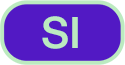
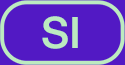
ajustando gui botones si no

Changed region(s): [[0.0, 0.0, 1.0, 1.0]]

diff --git a/src/vista/Prueba_Frame_001_Inicial.java b/src/vista/Prueba_Frame_001_Inicial.java
@@ -61,24 +61,34 @@ public class Prueba_Frame_001_Inicial extends JFrame {
         //Create Listener Object and Control Object
         //Set up JComponents
         contiene_Botones =  new JPanel();
+        contiene_Botones.setBackground(colorBack);
         padrino = new JPanel();
         escucha = new Escucha();
 
 
 
-        jButton_SI = new JButton("SI");
-        jButton_SI.setPreferredSize(new Dimension(60, 31));
-        jButton_SI.setBackground(Color.BLACK);
+        jButton_SI = new JButton();
+        ImageIcon imageIcon = new ImageIcon(getClass().getResource("/resources/Boton_SI.png"));
+        ImageIcon imageIcon_Pressed = new ImageIcon(getClass().getResource("/resources/Boton_SI_PRESSED.png"));
+        jButton_SI.setIcon(new ImageIcon(imageIcon.getImage().getScaledInstance(60,31,Image.SCALE_SMOOTH)));
+        jButton_SI.setBorder(BorderFactory.createEmptyBorder());
+        jButton_SI.setPressedIcon(new ImageIcon(imageIcon_Pressed.getImage().getScaledInstance(60,31,Image.SCALE_SMOOTH)));
         jButton_SI.setOpaque(true);
         jButton_SI.setFont(font);
         jButton_SI.addActionListener(escucha);
 
-        jButton_NO = new JButton("NO");
-        jButton_NO.setPreferredSize(new Dimension(60, 31));
-        jButton_NO.setBackground(Color.BLACK);
+
+        jButton_NO = new JButton();
+        imageIcon = new ImageIcon(getClass().getResource("/resources/Boton_NO.png"));
+        imageIcon_Pressed = new ImageIcon(getClass().getResource("/resources/Boton_NO_PRESSED.png"));
+        jButton_NO.setIcon(new ImageIcon(imageIcon.getImage().getScaledInstance(60,31,Image.SCALE_SMOOTH)));
+        jButton_NO.setBorder(BorderFactory.createEmptyBorder());
+        jButton_NO.setPressedIcon(new ImageIcon(imageIcon_Pressed.getImage().getScaledInstance(60,31,Image.SCALE_SMOOTH)));
         jButton_NO.setOpaque(true);
         jButton_NO.setFont(font);
         jButton_NO.addActionListener(escucha);
+
+
 
         frontFinal =  new Front_Final();
 

diff --git a/src/vista/Front_Inicial.java b/src/vista/Front_Inicial.java
@@ -121,26 +121,26 @@ public class Front_Inicial extends JPanel {
         gbc.gridheight=1; // ocupara 3 filas
         gbc.weightx = 1.0; // no se deformara
         gbc.weighty = 1.0; // no se deformara
-        gbc.insets.set(2,2,20,2);//espacio externo para el componente.101010
+        gbc.insets.set(2,2,100,2);//espacio externo para el componente.101010
         this.add(jLabel, gbc);
 
-        gbc.gridx=2; // columna 0
-        gbc.gridy=3; // fila 0
-        gbc.gridwidth=1; // ocupara 4 columnas
-        gbc.gridheight=2; // ocupara 3 filas
-        gbc.weightx = 1.0; // no se deformara
-        gbc.weighty = 1.0; // no se deformara
-        gbc.insets.set(2,2,40,2);//espacio externo para el componente.101010
-        this.add(si_Juego_Front_Inicial, gbc);
-
-        gbc.gridx=4; // columna 0
-        gbc.gridy=3; // fila 0
-        gbc.gridwidth=1; // ocupara 4 columnas
-        gbc.gridheight=2; // ocupara 3 filas
-        gbc.weightx = 1.0; // no se deformara
-        gbc.weighty = 1.0; // no se deformara
-        gbc.insets.set(2,2,40,2);//espacio externo para el componente.101010
-        this.add(no_Juego_Front_Inicial, gbc);
+//        gbc.gridx=2; // columna 0
+//        gbc.gridy=3; // fila 0
+//        gbc.gridwidth=1; // ocupara 4 columnas
+//        gbc.gridheight=2; // ocupara 3 filas
+//        gbc.weightx = 1.0; // no se deformara
+//        gbc.weighty = 1.0; // no se deformara
+//        gbc.insets.set(2,2,40,2);//espacio externo para el componente.101010
+//        this.add(si_Juego_Front_Inicial, gbc);
+//
+//        gbc.gridx=4; // columna 0
+//        gbc.gridy=3; // fila 0
+//        gbc.gridwidth=1; // ocupara 4 columnas
+//        gbc.gridheight=2; // ocupara 3 filas
+//        gbc.weightx = 1.0; // no se deformara
+//        gbc.weighty = 1.0; // no se deformara
+//        gbc.insets.set(2,2,40,2);//espacio externo para el componente.101010
+//        this.add(no_Juego_Front_Inicial, gbc);
 
     }
 
